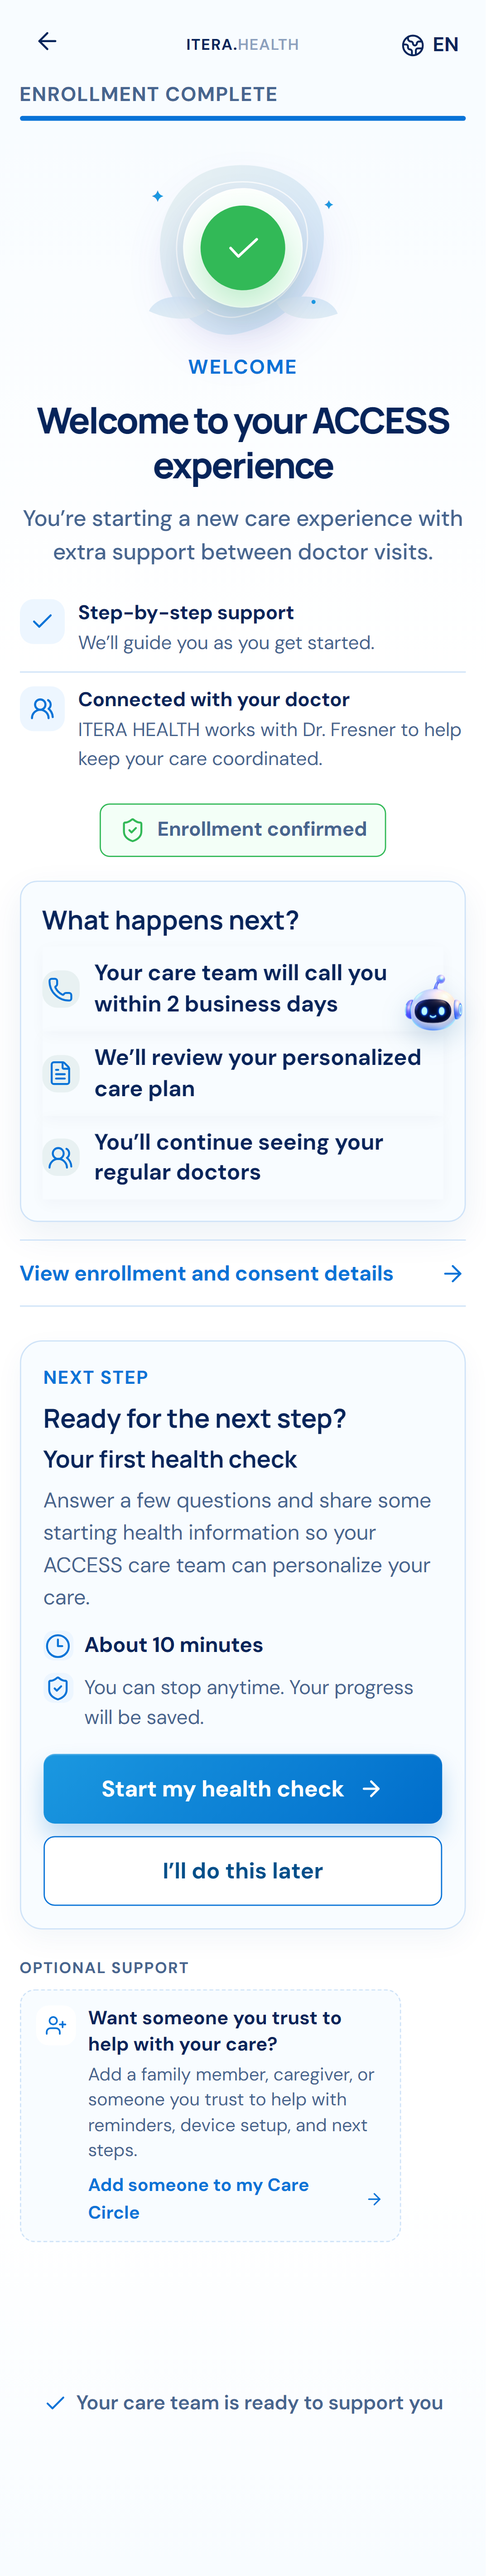
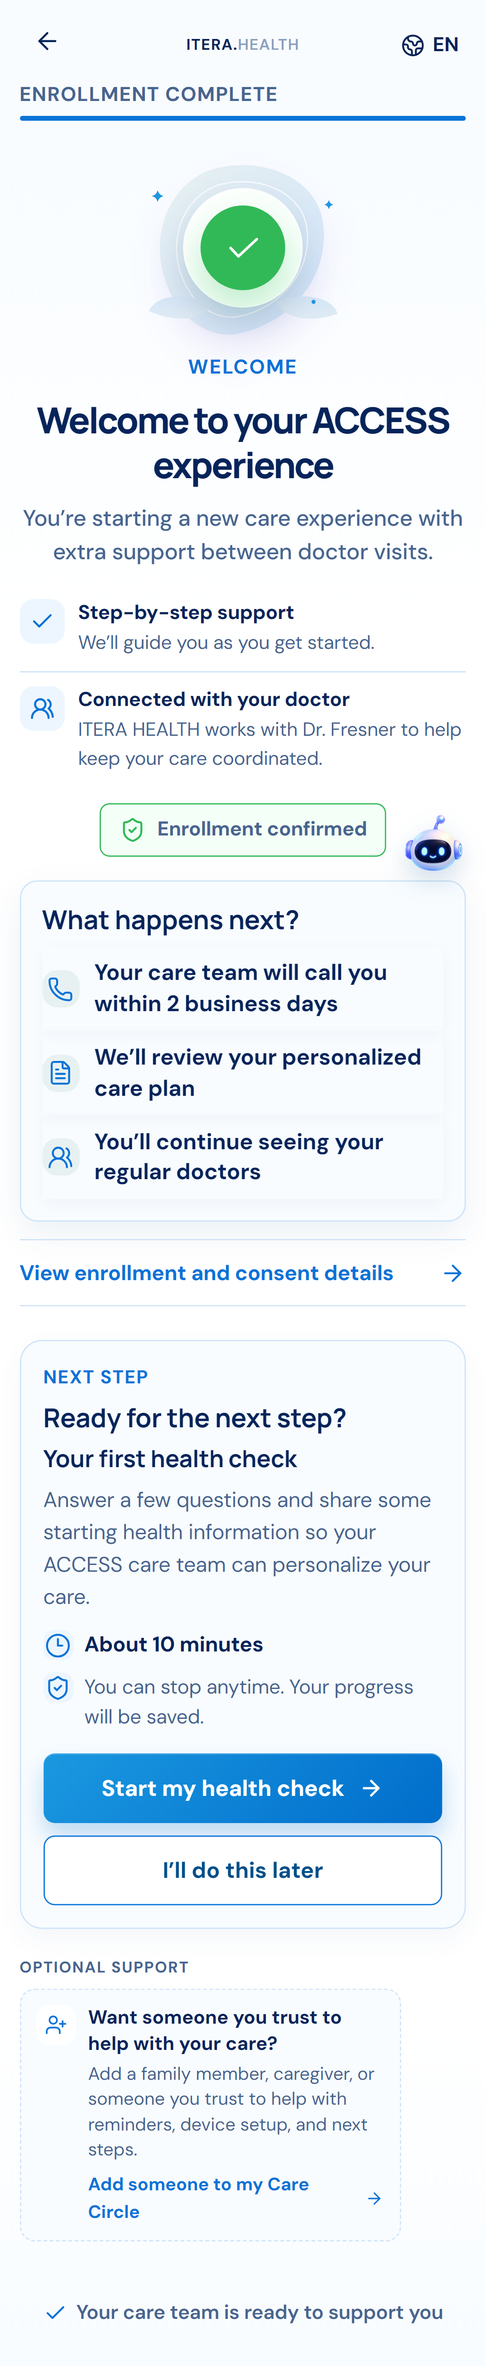
Let content define page height instead of reserved whitespace
Every patient screen ended with 105-194px of empty space below the last
meaningful element. The audit showed that figure matched the screen's
padding-bottom almost exactly: the 120px band reserved for the floating
assistant was itself the whitespace, duplicated by per-screen bottom padding
and widened by margin-top:auto pushing the action row to the viewport floor.

Fixed at the layout-system level rather than screen by screen:
- --patient-emmi-clearance (120px) becomes --patient-bottom-safe-gap (24px),
  applied once. The floating assistant is an overlay and no longer reserves
  page height.
- Removed the duplicate 92/96/105px bottom reservations on five screens, so
  there is a single source of bottom spacing.
- The shell owns the viewport; .screen is flex:1 0 auto instead of restating
  min-height, so the background still fills without manufacturing content
  height. The desktop min-height restatement is gone too.
- margin-top:auto on the action row and on two lone-CTA rules becomes
  clamp(20px,4vh,40px), so actions follow their content with a bounded gap.

Measured at 412x915: the empty tail drops from 119/120/105/120px on Home,
Who's completing, Your care and Enrollment complete to 24px, which is the
closing gap itself. A new Playwright check asserts across 360/375/390/412/430
that a scrolling screen never leaves more than that gap below its last
meaningful element.

Known issue, not resolved here: the floating assistant can still overlap a
[…]

diff --git a/src/styles.css b/src/styles.css
@@ -77,7 +77,9 @@
   --patient-card-radius:14px;
   --patient-card-padding:16px;
   --patient-section-gap:16px;
-  --patient-emmi-clearance:120px;
+  --patient-bottom-safe-gap:24px;
+  /* Overlay-only offset: keeps the floating assistant above the closing region. */
+  --patient-emmi-overlay-offset:140px;
   --space-xs:4px;
   --space-sm:8px;
   --space-md:16px;
@@ -96,7 +98,7 @@ button { color:inherit; }
 a { color:var(--violet); }
 .skip-link { position:fixed; z-index:99; top:-80px; left:16px; padding:12px 16px; color:white; background:var(--navy); border-radius:8px; }
 .skip-link:focus { top:12px; }
-.shell { position:relative; width:100%; max-width:var(--patient-shell-width); min-height:100dvh; margin:0 auto; background:var(--surface-primary); box-shadow:none; overflow-x:clip; overflow-y:visible; }
+.shell { position:relative; display:flex; flex-direction:column; width:100%; max-width:var(--patient-shell-width); min-height:100dvh; margin:0 auto; background:var(--surface-primary); box-shadow:none; overflow-x:clip; overflow-y:visible; }
 .app-header { position:relative; z-index:4; padding:calc(14px + env(safe-area-inset-top)) max(var(--patient-page-gutter),env(safe-area-inset-right)) 0 max(var(--patient-page-gutter),env(safe-area-inset-left)); background:var(--surface-secondary); }
 .brand-row { display:grid; grid-template-columns:minmax(0,1fr) auto minmax(0,1fr); align-items:center; width:100%; min-height:44px; }
 .brand { justify-self:center; color:#8b92ad; text-decoration:none; font-size:.78rem; letter-spacing:.045em; font-weight:600; }
@@ -114,7 +116,7 @@ a { color:var(--violet); }
 .progress-meta span { min-width:0;max-width:100%;overflow-wrap:anywhere; }
 .progress { height:4px; border-radius:999px; background:var(--border-default); overflow:hidden; }
 .progress span { display:block; height:100%; background:var(--primary-600); border-radius:inherit; transition:width .35s ease; }
-.screen { position:relative; min-height:calc(100dvh - 84px); padding:27px max(var(--patient-page-gutter),env(safe-area-inset-right)) calc(var(--patient-emmi-clearance) + env(safe-area-inset-bottom)) max(var(--patient-page-gutter),env(safe-area-inset-left)); display:flex; flex-direction:column; background:linear-gradient(180deg,var(--surface-secondary) 0%,var(--surface-primary) 23%,var(--surface-primary) 84%,var(--surface-secondary) 100%); }
+.screen { position:relative; flex:1 0 auto; padding:27px max(var(--patient-page-gutter),env(safe-area-inset-right)) calc(var(--patient-bottom-safe-gap) + env(safe-area-inset-bottom)) max(var(--patient-page-gutter),env(safe-area-inset-left)); display:flex; flex-direction:column; background:linear-gradient(180deg,var(--surface-secondary) 0%,var(--surface-primary) 23%,var(--surface-primary) 84%,var(--surface-secondary) 100%); }
 h1,h2,h3 { margin:0; font-family:"Manrope",system-ui,sans-serif; color:var(--navy); line-height:1.16; }
 h1 { margin:8px 0 11px; font-size:clamp(1.78rem,7.4vw,2.12rem); letter-spacing:-.047em; font-weight:800; outline:none; }
 h1:focus-visible { outline:none; }
@@ -135,7 +137,7 @@ p { margin:0; }
 .provider-card strong { font-size:.93rem; }
 .provider-card strong span { color:var(--violet); }
 .provider-card small { color:#59617f; font-size:.875rem; }
-.screen:has(.invitation-stage) { min-height:calc(100dvh - 76px);padding-top:7px;text-align:center; }
+.screen:has(.invitation-stage) { padding-top:7px;text-align:center; }
 .invitation-stage { position:relative;flex:0 0 170px;height:170px;margin:0;overflow:hidden; }
 .invitation-stage::before { content:"";position:absolute;width:190px;height:190px;right:-48px;top:26px;border-radius:50%;background:radial-gradient(circle at 42% 38%,rgba(255,255,255,.72),rgba(232,228,255,.9) 62%,rgba(238,235,255,.3) 63%); }
 .invitation-stage::after { content:"";position:absolute;width:295px;height:295px;right:-121px;top:0;border:1px solid rgba(113,82,235,.08);border-radius:50%;box-shadow:0 0 0 34px rgba(99,75,224,.025); }
@@ -168,7 +170,7 @@ p { margin:0; }
 .info-row strong,.info-row p { display:block; }
 .info-row strong { font-size:.93rem; line-height:1.35; }
 .info-row p,.info-row small { margin-top:3px; color:#565e7b; font-size:.875rem; line-height:1.45; }
-.actions { display:grid; grid-template-columns:minmax(96px,.75fr) minmax(0,1.45fr); gap:10px; margin-top:auto; padding-top:22px; }
+.actions { display:grid; grid-template-columns:minmax(96px,.75fr) minmax(0,1.45fr); gap:10px; margin-top:clamp(20px,4vh,40px); padding-top:0; }
 .actions>.primary:only-child { grid-column:1/-1; }
 .button { min-height:56px; padding:13px 19px; border:0; border-radius:9px; cursor:pointer; font-weight:700; font-size:1rem; display:flex; justify-content:center; align-items:center; gap:11px; text-decoration:none; transition:transform .16s ease,box-shadow .16s ease; }
 .button.primary { color:var(--surface-primary); background:var(--cta-gradient); box-shadow:0 10px 18px rgba(0,111,203,.24),inset 0 1px rgba(255,255,255,.22); }
@@ -214,7 +216,7 @@ p { margin:0; }
 .identity-screen .date-picker-icon { width:44px;height:44px; }
 .identity-screen .actions { margin-top:28px;padding-top:0; }
 .identity-screen .button { min-height:56px;font-size:1.0625rem; }
-.representative-details-screen { padding-bottom:calc(92px + env(safe-area-inset-bottom)); }
+.representative-details-screen { padding-bottom:calc(var(--patient-bottom-safe-gap) + env(safe-area-inset-bottom)); }
 .representative-details-screen .lead { margin-bottom:25px;font-size:1.0625rem;line-height:1.52; }
 .representative-details-screen .field { gap:9px;margin-bottom:20px;font-size:1rem;line-height:1.35; }
 .representative-details-screen .field input,.representative-details-screen .field select { min-height:58px;font-size:1.0625rem;line-height:1.35; }
@@ -233,14 +235,14 @@ p { margin:0; }
 .verified-phone-status strong { color:var(--text-primary);font-size:1rem;line-height:1.35; }
 .verified-phone-status small { color:var(--text-secondary);font-size:.95rem;line-height:1.4; }
 .shell:has(.representative-details-screen) .emmi-assistant { bottom:calc(18px + env(safe-area-inset-bottom)); }
-.recommendation-screen { padding-bottom:calc(105px + env(safe-area-inset-bottom)); }
+.recommendation-screen { padding-bottom:calc(var(--patient-bottom-safe-gap) + env(safe-area-inset-bottom)); }
 .recommendation-screen .lead { margin-bottom:24px;font-size:1.0625rem;line-height:1.52; }
 .recommendation-screen .info-row { min-height:78px;padding-top:13px;padding-bottom:13px; }
 .recommendation-screen .info-row strong { font-size:1.02rem;line-height:1.35; }
 .recommendation-screen .info-row p { margin-top:4px;font-size:1rem;line-height:1.48; }
 .recommendation-screen .note { margin-top:17px;font-size:1rem;line-height:1.5; }
 .shell:has(.recommendation-screen) .emmi-assistant { bottom:calc(18px + env(safe-area-inset-bottom)); }
-.care-works-screen { padding-bottom:calc(92px + env(safe-area-inset-bottom)); }
+.care-works-screen { padding-bottom:calc(var(--patient-bottom-safe-gap) + env(safe-area-inset-bottom)); }
 .care-works-screen .lead { font-size:1.0625rem;line-height:1.52; }
 .care-works-screen .provider-card { margin-bottom:12px; }
 .care-works-screen .info-row { min-height:82px;padding-top:13px;padding-bottom:13px; }
@@ -248,7 +250,7 @@ p { margin:0; }
 .care-works-screen .info-row p { margin-top:4px;font-size:1rem;line-height:1.48; }
 .care-works-screen .trust-note { font-size:1rem;line-height:1.5; }
 .shell:has(.care-works-screen) .emmi-assistant { bottom:calc(18px + env(safe-area-inset-bottom)); }
-.access-notice-screen { padding-bottom:calc(92px + env(safe-area-inset-bottom)); }
+.access-notice-screen { padding-bottom:calc(var(--patient-bottom-safe-gap) + env(safe-area-inset-bottom)); }
 .access-notice-screen .lead { font-size:1.0625rem;line-height:1.52; }
 .access-precheck-list { padding:4px 16px;border:1px solid var(--border-default);border-radius:14px;background:var(--surface-primary);box-shadow:var(--card-shadow); }
 .access-precheck-row { display:flex;gap:12px;align-items:flex-start;min-height:86px;padding:15px 2px;border-bottom:1px solid var(--border-default); }
@@ -259,7 +261,7 @@ p { margin:0; }
 .access-precheck-row p { margin:4px 0 0;color:var(--text-muted);font-size:1rem;line-height:1.5; }
 .access-notice-screen .check-row { min-height:48px;align-items:center;font-size:1rem;line-height:1.45; }
 .shell:has(.access-notice-screen) .emmi-assistant { bottom:calc(18px + env(safe-area-inset-bottom)); }
-.access-not-eligible-screen { display:flex;flex:1;flex-direction:column;padding-bottom:calc(92px + env(safe-area-inset-bottom)); }
+.access-not-eligible-screen { display:flex;flex:1;flex-direction:column;padding-bottom:calc(var(--patient-bottom-safe-gap) + env(safe-area-inset-bottom)); }
 .shell:has(.access-not-eligible-screen) .emmi-assistant { bottom:calc(18px + env(safe-area-inset-bottom)); }
 .check-row { position:relative; display:flex; gap:11px; align-items:flex-start; margin:14px 0; cursor:pointer; font-size:.9rem; line-height:1.45; }
 .check-row input { position:absolute; opacity:0; }
@@ -416,7 +418,7 @@ p { margin:0; }
 .service-chips span { flex:0 0 auto; display:flex; align-items:center; gap:6px; padding:8px 10px; border-radius:7px; background:var(--lavender); font-size:.8rem; }
 .service-chips .icon { width:18px; height:18px; }
 .consent-summary { font-size:.875rem; line-height:1.48; }.consent-summary p { margin:10px 0; }.consent-summary .icon { width:21px; height:21px; color:var(--green); background:transparent; }
-.access-consent-screen { padding-bottom:calc(var(--patient-emmi-clearance) + env(safe-area-inset-bottom)); }
+.access-consent-screen { padding-bottom:calc(var(--patient-bottom-safe-gap) + env(safe-area-inset-bottom)); }
 .access-consent-screen .lead { font-size:1.0625rem; line-height:1.52; }
 .access-consent-care-team .provider-card strong,.access-consent-care-team .itera-provider strong { font-size:1.0625rem; line-height:1.35; }
 .access-consent-care-team .provider-card small,.access-consent-care-team .itera-provider small { font-size:1rem; line-height:1.45; }
@@ -465,7 +467,7 @@ p { margin:0; }
 .enrollment-consent-details summary { font-size:1rem; line-height:1.4; }
 .enrollment-consent-details summary .icon { width:22px; height:22px; background:transparent; }
 .enrollment-consent-details p { font-size:1rem; line-height:1.55; }
-.enrollment-welcome-screen { display:flex;flex-direction:column;min-width:0;padding-bottom:calc(96px + env(safe-area-inset-bottom)); }
+.enrollment-welcome-screen { display:flex;flex-direction:column;min-width:0;padding-bottom:calc(var(--patient-bottom-safe-gap) + env(safe-area-inset-bottom)); }
 .enrollment-welcome-screen .art { margin-bottom:4px; }
 .success-eyebrow { margin:2px 0 7px;color:var(--primary-600);font-size:1rem;font-weight:800;line-height:1.35;text-align:center;text-transform:uppercase;letter-spacing:.06em; }
 .enrollment-welcome-screen h1 { max-width:none;text-align:center; }
@@ -521,7 +523,7 @@ p { margin:0; }
 .process-list li { position:relative; display:flex; gap:13px; align-items:center; min-height:64px; color:#7d839a; font-size:.88rem; line-height:1.4; }
 .process-list li:not(:last-child)::after { content:""; position:absolute; left:19px; top:43px; width:2px; height:28px; background:#dddfea; }
 .process-list .done,.process-list .active { color:var(--ink); font-weight:700; }.process-list .done .icon { color:white; background:var(--violet); }.process-list .active .icon { border:2px solid var(--violet); background:white; }
-.screen:has(.process-list) { justify-content:center;padding-bottom:calc(var(--patient-emmi-clearance) + env(safe-area-inset-bottom)); }
+.screen:has(.process-list) { justify-content:center;padding-bottom:calc(var(--patient-bottom-safe-gap) + env(safe-area-inset-bottom)); }
 .screen:has(.process-list) h1,.screen:has(.process-list) .lead { text-align:center;margin-left:auto;margin-right:auto; }
 .eligibility-processing-screen .process-list li { font-size:1rem;line-height:1.45; }
 .eligibility-error-screen h1,.eligibility-error-screen .lead { text-align:center;margin-left:auto;margin-right:auto; }
@@ -619,12 +621,12 @@ p { margin:0; }
 .shipping-fields { margin-top:16px; }
 .shipping-short-fields { display:grid; grid-template-columns:1fr 1.25fr; gap:10px; }
 @media (max-width:360px) { .arm-measure-card { align-items:flex-start; }.arm-measure-illustration { flex-basis:58px; transform:scale(.85); transform-origin:top left; }.segmented-options:not(.keep-one-row) { grid-template-columns:1fr; }.cuff-placement-card { grid-template-columns:105px minmax(0,1fr);gap:10px;padding:10px; }.cuff-placement-card img { width:105px;height:88px; }.cuff-placement-card p { font-size:.88rem; } }
-.instruction-list + .button.primary { margin-top:auto; }
+.instruction-list + .button.primary { margin-top:clamp(20px,4vh,40px); }
 .instruction-list + .button.primary + .button.secondary { margin-top:9px; }
 .waiting { min-height:180px; display:flex; flex-direction:column; justify-content:center; align-items:center; gap:9px; text-align:center; }.waiting strong { font-family:"Manrope"; }.waiting small { max-width:30ch; color:var(--muted); }.pulse-ring { width:62px;height:62px;border:5px solid #d9d3ff;border-top-color:var(--violet);border-radius:50%;animation:spin 1.2s linear infinite; }
 .error-card { color:#7a271a; background:#fff1ef; }.error-card strong,.error-card small { display:block; }.error-card small { margin-top:3px; }
 .reading-card { position:relative;margin:0 0 15px;text-align:center;background:linear-gradient(145deg,#f5fdf9,#eaf9f2);overflow:hidden; }.reading-card::after { content:"";position:absolute;width:90px;height:90px;border-radius:50%;right:-45px;top:-45px;background:rgba(37,186,125,.08); }.reading-card small,.reading-card strong { display:block; }.reading-card small { color:#087149; }.reading-card strong { margin-top:5px;color:#07945e;font-family:"Manrope";font-size:2.2rem;letter-spacing:-.05em; }.reading-card em { font-family:"DM Sans";font-size:.7rem;font-style:normal;letter-spacing:0; }
-.reading-card ~ .button.primary,.next-card ~ .button.primary { margin-top:auto; }
+.reading-card ~ .button.primary,.next-card ~ .button.primary { margin-top:clamp(20px,4vh,40px); }
 .floating-help { position:fixed; z-index:8; right:max(14px,calc((100vw - var(--patient-shell-width))/2 + 14px)); bottom:calc(84px + env(safe-area-inset-bottom)); width:50px;height:50px;border:2px solid rgba(255,255,255,.75);border-radius:50%;color:white;background:var(--navy);box-shadow:0 9px 24px rgba(7,23,68,.25);font-weight:800;cursor:pointer; }
 .shell:has(.invitation-stage) .floating-help,
 .shell:has(.instruction-list) .floating-help,
@@ -1179,7 +1181,7 @@ p { margin:0; }
 .trust-emblem.practice .icon { background:var(--surface-purple); }
 :focus-visible { outline:3px solid var(--primary-600); outline-offset:3px; }
 @keyframes spin { to { transform:rotate(360deg); } }
-@media (min-width:600px) { body { padding:28px 0; }.shell { width:var(--patient-shell-width);max-width:100%;min-height:max(844px,calc(100dvh - 56px));border:1px solid rgba(225,225,237,.9);border-radius:24px;box-shadow:0 0 30px rgba(0,78,137,.08); }.screen { min-height:max(760px,calc(100dvh - 140px)); }.floating-help { bottom:112px; } }
+@media (min-width:600px) { body { padding:28px 0; }.shell { width:var(--patient-shell-width);max-width:100%;min-height:max(844px,calc(100dvh - 56px));border:1px solid rgba(225,225,237,.9);border-radius:24px;box-shadow:0 0 30px rgba(0,78,137,.08); }.floating-help { bottom:112px; } }
 @media (min-width:600px) { .emmi-assistant { right:calc((100vw - var(--patient-shell-width))/2 + 10px);bottom:24px; }.contextual-assurance { width:calc(100% - 72px); } }
 @media (min-width:600px) { .prototype-console { min-height:calc(100dvh - 56px);margin:0 auto; } }
 @media (max-width:480px) { .assistant-content { padding-left:18px;padding-right:18px; }.assistant-intro { grid-template-columns:50px 1fr; }.assistant-intro img { width:50px;height:50px; }.assistant-intro h1 { font-size:1.5rem; }.assistant-voice-controls { grid-template-columns:1fr; } }
@@ -1214,7 +1216,7 @@ p { margin:0; }
   .access-not-eligible-screen .actions { grid-template-columns:1fr; }
   .access-not-eligible-screen .actions>.primary { grid-row:1; }
   .access-not-eligible-screen .actions>.secondary { grid-row:2; }
-  .emmi-assistant { right:var(--patient-page-gutter);bottom:calc(12px + env(safe-area-inset-bottom));width:52px;height:52px; }
+  .emmi-assistant { right:var(--patient-page-gutter);bottom:calc(var(--patient-emmi-overlay-offset) + env(safe-area-inset-bottom));width:52px;height:52px; }
   .emmi-avatar,.emmi-avatar img { width:52px;height:52px; }
 }
 @media (max-width:374px) { body { font-size:17px; }h1 { font-size:1.75rem; }.button { min-height:52px; }.art { height:118px; }.art-orbit { width:104px;height:104px; }.art-icon { width:65px;height:65px; }.stage-brand-row{padding-right:7px} }
@@ -1408,7 +1410,7 @@ body { font-size:var(--font-body);line-height:var(--line-body); }
 }
 
 /* Home hierarchy: ACCESS first, EMMI second, optional human support last. */
-.screen:has(.invitation-stage) { padding-bottom:calc(var(--patient-emmi-clearance) + env(safe-area-inset-bottom)); }
+.screen:has(.invitation-stage) { padding-bottom:calc(var(--patient-bottom-safe-gap) + env(safe-area-inset-bottom)); }
 .screen:has(.invitation-stage) .emmi-welcome { gap:10px;margin:0 0 16px;padding:13px 14px;border-radius:16px;box-shadow:0 7px 20px rgba(0,78,137,.055); }
 .screen:has(.invitation-stage) .emmi-welcome-identity { grid-template-columns:56px minmax(0,1fr);gap:11px; }
 .screen:has(.invitation-stage) .emmi-welcome-identity img { width:56px;height:56px; }

diff --git a/e2e/enrollment.spec.js b/e2e/enrollment.spec.js
@@ -2746,3 +2746,45 @@ test("the floating assistant never covers an action once the patient reaches it"
     }
   }
 });
+
+test("patient screens end with their content instead of an empty scroll tail", async ({ page }) => {
+  const viewports = [
+    { width: 360, height: 800 },
+    { width: 375, height: 812 },
+    { width: 390, height: 844 },
+    { width: 412, height: 915 },
+    { width: 430, height: 932 }
+  ];
+  const screens = ["INVITATION", "DECISION_MAKER", "IDENTITY_VERIFICATION", "CARE_RECOMMENDATION", "ACCESS_PRE_ELIGIBILITY_NOTICE", "CONSENT_REVIEW", "ENROLLMENT_CONFIRMED", "ACCESS_BASELINE", "ONBOARDING_COMPLETE"];
+  for (const viewport of viewports) {
+    await page.setViewportSize(viewport);
+    await page.goto("/?scenario=access-happy");
+    for (const screen of screens) {
+      await page.locator("#screen-select").selectOption(screen, { force: true });
+      const audit = await page.evaluate(() => {
+        window.scrollTo(0, 0);
+        const root = document.querySelector("#screen-content");
+        const meaningful = [...root.querySelectorAll("*")].filter(node => {
+          const style = getComputedStyle(node);
+          if (style.display === "none" || style.visibility === "hidden" || style.position === "fixed") return false;
+          const rect = node.getBoundingClientRect();
+          return rect.height > 4 && rect.width > 4 && (node.textContent.trim() || node.tagName === "IMG" || node.tagName === "BUTTON");
+        });
+        const contentBottom = Math.max(...meaningful.map(node => node.getBoundingClientRect().bottom));
+        const documentHeight = document.documentElement.scrollHeight;
+        return {
+          // Only counts when the page actually scrolls: a viewport taller than the content is
+          // the device, not manufactured height.
+          scrolls: documentHeight > innerHeight + 1,
+          tail: documentHeight - contentBottom,
+          bottomPadding: parseFloat(getComputedStyle(root).paddingBottom)
+        };
+      });
+      if (audit.scrolls) {
+        // Nothing below the last meaningful element but the single closing gap.
+        expect(audit.tail, `${screen} @${viewport.width}x${viewport.height} empty scroll tail`).toBeLessThanOrEqual(audit.bottomPadding + 8);
+      }
+      expect(audit.bottomPadding, `${screen} @${viewport.width} bottom padding`).toBeLessThanOrEqual(48);
+    }
+  }
+});
